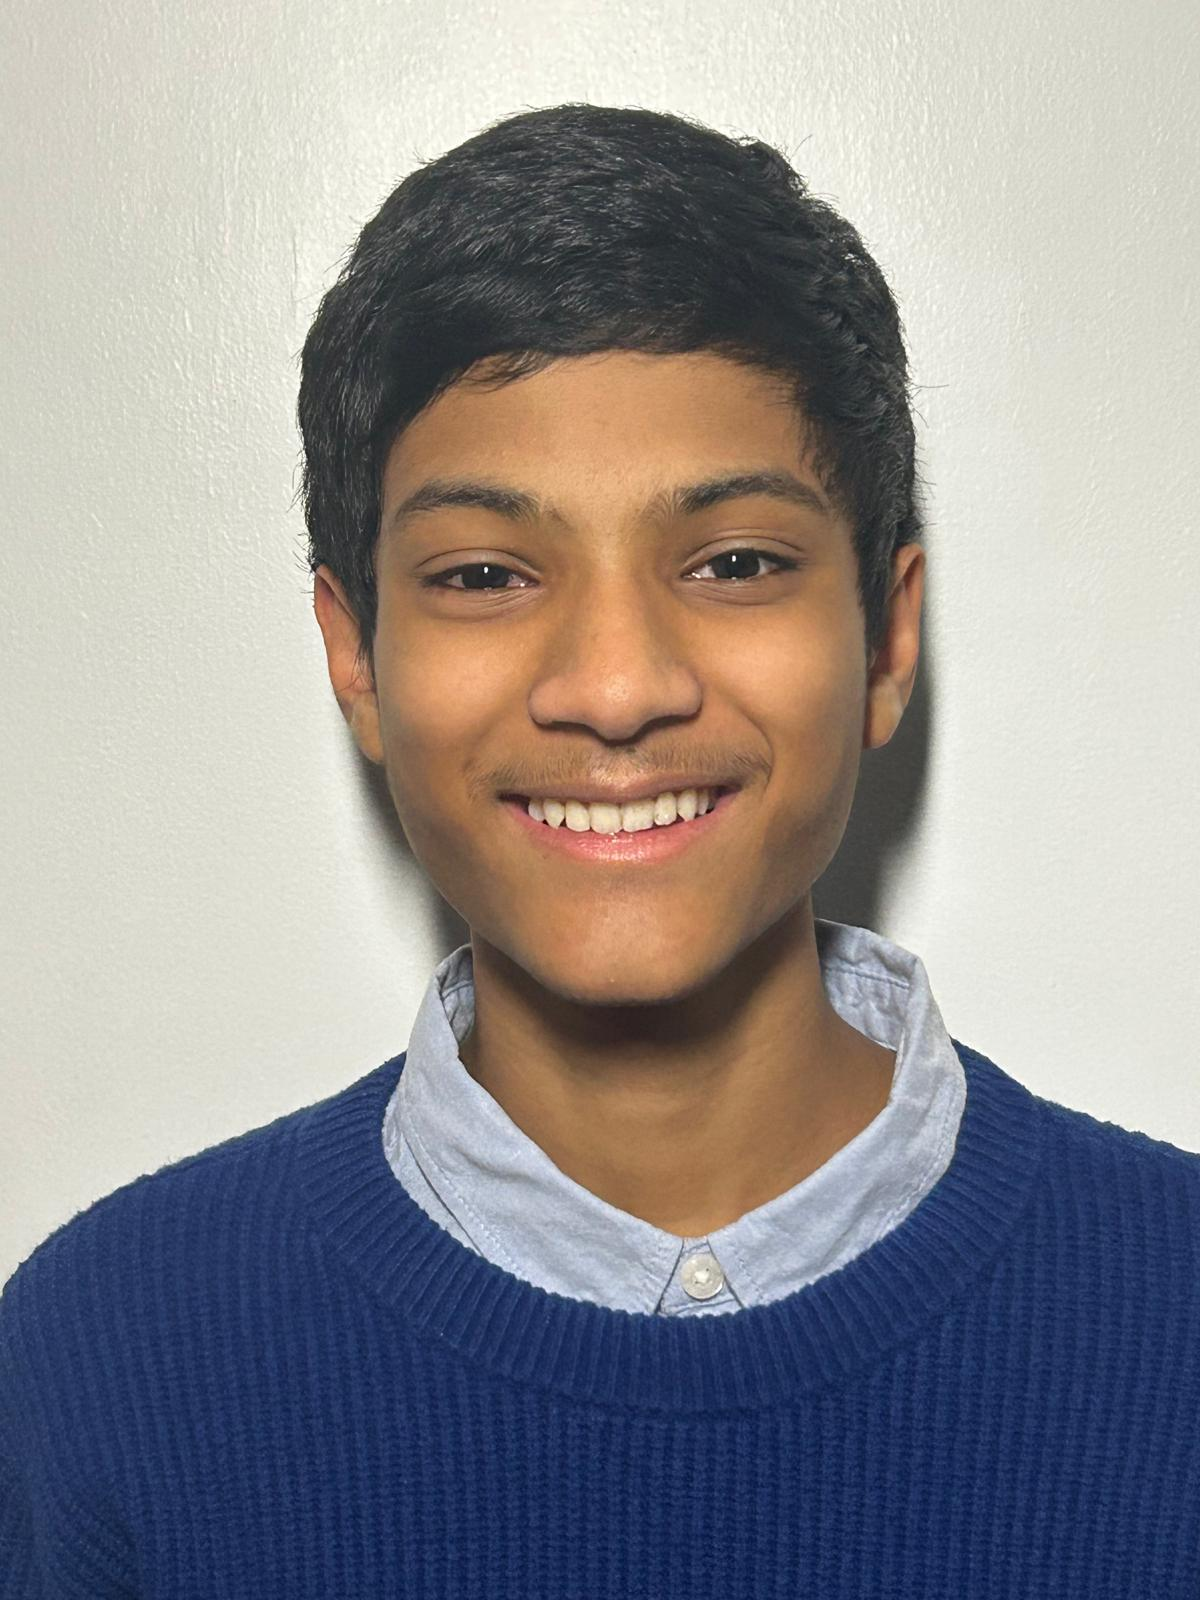
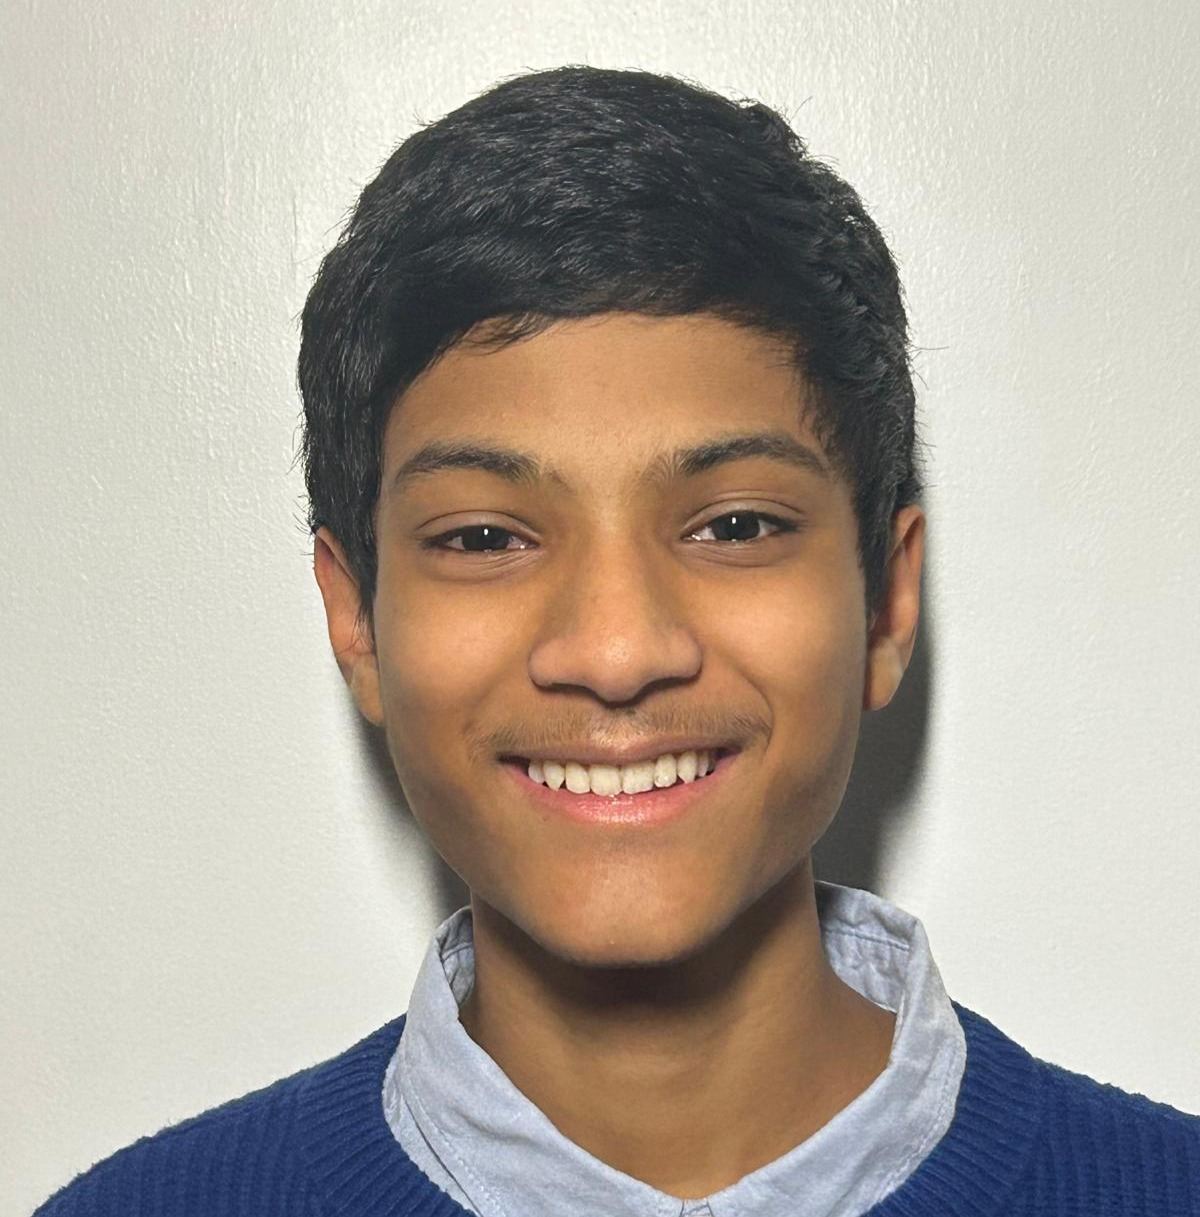
cropped image

diff --git a/src/components/sections/TeamSection.tsx b/src/components/sections/TeamSection.tsx
@@ -59,9 +59,7 @@ const TeamSection = () => {
                     src={member.image}
                     alt={`${member.name} - ${member.role}`}
                     loading="lazy"
-                    className="w-full h-full object-cover object-top-[0.2px]"
-                    width={224}
-                    height={224}
+                    className="w-full h-full object-cover object-top"
                   />
                 </div>
 
